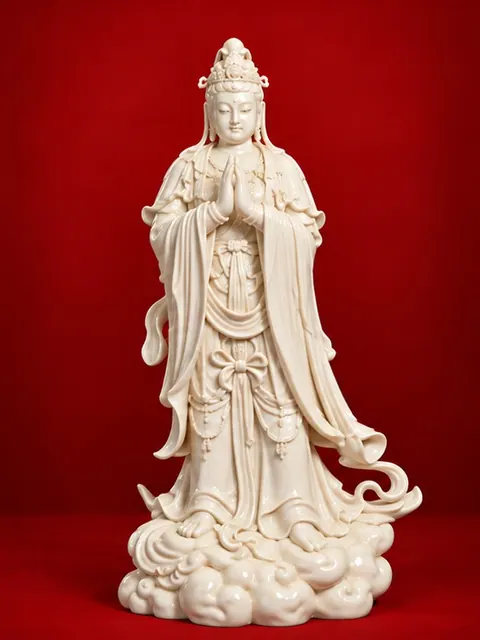
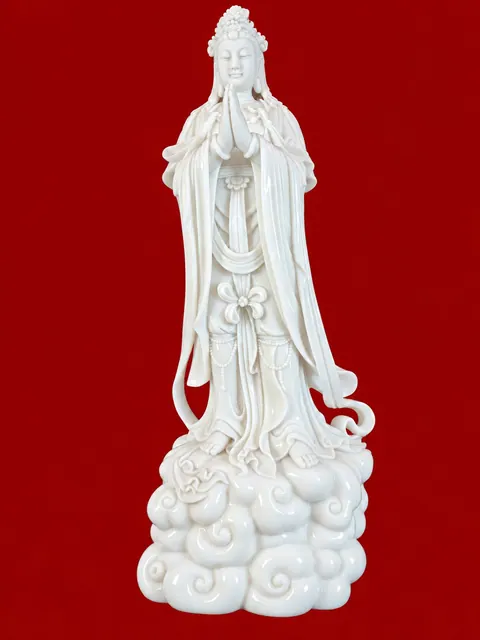
ใส่ภาพถ่ายองค์จริง ๑๔ ปาง แทนภาพ AI
จับคู่ปางตามชื่อที่อ่านจากฐานองค์ (content-src/guanyin-29-image-names-th.md)
ใช้เฉพาะองค์ที่ฐานระบุปางในชุด ๓๓ ชัดเจน:
  ปาง 2 龍頭 ← รูป 18 (รูป 03 ก็มีมังกรแต่ไม่มีชื่อบนฐาน)
  ปาง 3 持經 ← 10 · 4 圓光 ← 11 · 7 臥蓮 ← 26 · 8 瀧見 ← 09 · 9 施藥 ← 05
  ปาง 10 魚籃 ← 17 · 13 一葉 ← 06 · 16 延命 ← 29 · 21 阿摩提 ← 19
  ปาง 26 六時 ← 24 · 29 合掌 ← 08 · 30 一如 ← 15 · 32 持蓮 ← 02
ปาง 7 และ 10 เดิมไม่มีภาพเลย ตอนนี้ได้ภาพจริง

- photo-meta.json: ถอด ๑๔ ปางออกจาก illustrations (ป้าย "ภาพประกอบ" หายเอง)
  และบันทึกที่มาของแต่ละภาพไว้ใน photos
- รูปอีก ๑๕ ที่ฐานเขียนชื่อรวม (觀音菩薩) หรือชื่อนอกชุด ๓๓ (阿觀音 水觀音 幻觀音)
  เก็บไว้ใน photos-src/unplaced/ ยังไม่ขึ้นเว็บ รอตำหนักระบุ
- ภาพ AI เหลือ ๑๘ ปาง · ปาง 24 ยังเป็นตู้ทองรอภาพ

Claude-Session: https://claude.ai/code/session_016CHsTgx8yqJaDLsGr5Wm3t

diff --git a/content-src/guanyin-29-image-names-th.md b/content-src/guanyin-29-image-names-th.md
@@ -1,0 +1,43 @@
+# รายชื่อเจ้าแม่กวนอิมในภาพรวม 29 องค์
+
+เอกสารนี้เรียงชื่อตามหมายเลข **01–29** ในภาพรวมพื้นหลังสีแดง
+
+| เลข | ชื่อภาษาไทย | ชื่อภาษาจีน | หลักในการระบุ |
+|---:|---|---|---|
+| 01 | กวนอิมประทับนั่งท่าลลิตาสนะ | — | ระบุตามลักษณะองค์ |
+| 02 | ปางถือดอกบัว | 持蓮觀音 | ระบุตามดอกบัวที่ทรงถือ |
+| 03 | ปางทรงมังกร | 龍頭觀音 | ระบุตามมังกรข้างองค์ |
+| 04 | กวนอิมประทับนั่งบนเมฆ | — | ระบุตามลักษณะองค์ |
+| 05 | ปางประทานยา | 施藥觀音 | อ่านจากชื่อบนฐานต้นฉบับ |
+| 06 | ปางใบบัวหนึ่งใบ | 一葉觀音 | ระบุตามฐานรูปใบบัวเหนือคลื่น |
+| 07 | กวนอิมยืนประทานพรบนดอกบัว | — | ระบุตามลักษณะองค์ |
+| 08 | ปางประนมพระหัตถ์ | 合掌觀音 | อ่านจากชื่อบนฐานต้นฉบับ |
+| 09 | ปางชมน้ำตก | 瀧見觀音 | อ่านจากชื่อบนฐานต้นฉบับ |
+| 10 | ปางถือคัมภีร์ | 持經觀音 | อ่านจากชื่อบนฐานต้นฉบับ |
+| 11 | ปางรัศมีวงกลม | 圓光觀音 | อ่านจากชื่อบนฐานต้นฉบับ |
+| 12 | อากวนอิม | 阿觀音 | ใช้ตามข้อความบนฐานต้นฉบับ |
+| 13 | กวนอิมแห่งสายน้ำ | 水觀音 | ใช้ตามข้อความบนฐานต้นฉบับ |
+| 14 | ฮ่วนกวนอิม | 幻觀音 | ใช้ตามข้อความบนฐานต้นฉบับ |
+| 15 | ปางเอกตถตา | 一如觀音 | อ่านจากชื่อบนฐานต้นฉบับ |
+| 16 | พระโพธิสัตว์กวนอิม | 觀音菩薩 | อ่านจากชื่อบนฐานต้นฉบับ |
+| 17 | ปางถือตะกร้าปลา | 魚籃觀音 | อ่านจากชื่อบนฐานต้นฉบับ |
+| 18 | ปางทรงมังกร | 龍頭觀音 | อ่านจากชื่อบนฐานต้นฉบับ |
+| 19 | ปางอามาติ | 阿摩提觀音 | อ่านจากชื่อบนฐานต้นฉบับ |
+| 20 | พระโพธิสัตว์กวนอิม | 觀音菩薩 | อ่านจากชื่อบนฐานต้นฉบับ |
+| 21 | พระโพธิสัตว์อวโลกิเตศวร | 觀世音菩薩 | อ่านจากชื่อบนฐานต้นฉบับ |
+| 22 | พระโพธิสัตว์กวนอิม | 觀音菩薩 | อ่านจากชื่อบนฐานต้นฉบับ |
+| 23 | พระโพธิสัตว์กวนอิม | 觀音菩薩 | อ่านจากชื่อบนฐานต้นฉบับ |
+| 24 | ปางหกกาล | 六時觀音 | อ่านจากชื่อบนฐานต้นฉบับ |
+| 25 | เจ้าแม่กวนอิม | 觀音 | อ่านจากชื่อบนฐานต้นฉบับ |
+| 26 | ปางประทับบนบัว | 臥蓮觀音 | อ่านจากคำว่า 臥蓮 บนฐานต้นฉบับ |
+| 27 | เจ้าแม่กวนอิม | 觀音 | อ่านจากชื่อบนฐานต้นฉบับ |
+| 28 | กวนอิมประทับบัวคู่กับนก | — | ระบุตามลักษณะองค์ |
+| 29 | ปางยืดอายุ | 延命觀音 | อ่านจากชื่อบนฐานต้นฉบับ |
+
+## หมายเหตุสำคัญ
+
+- หมายเลข 01, 04, 07 และ 28 ไม่มีชื่อเฉพาะบนฐานเดิม จึงใช้ชื่อเรียกตามลักษณะศิลปกรรมเพื่อแยกองค์
+- หมายเลข 02, 03 และ 06 ไม่มีป้ายชื่อ แต่มีเครื่องประกอบที่สอดคล้องกับปางถือดอกบัว ปางทรงมังกร และปางใบบัวหนึ่งใบตามลำดับ
+- หมายเลข 12–14 ใช้ข้อความที่ปรากฏบนฐานเดิมโดยตรง ได้แก่ 阿觀音, 水觀音 และ 幻觀音 ไม่ได้บังคับเทียบเข้ากับรายชื่อกวนอิม 33 ปางมาตรฐาน
+- หมายเลข 03 และ 18 ใช้ชื่อปางทรงมังกรเหมือนกัน แต่เป็นรูปปั้นคนละแบบ จึงไม่ถือว่าเป็นภาพซ้ำ
+- ชุดต้นฉบับมี 32 รูป ตัดภาพซ้ำออก 3 รูป เหลือรูปไม่ซ้ำทั้งหมด 29 รูป
